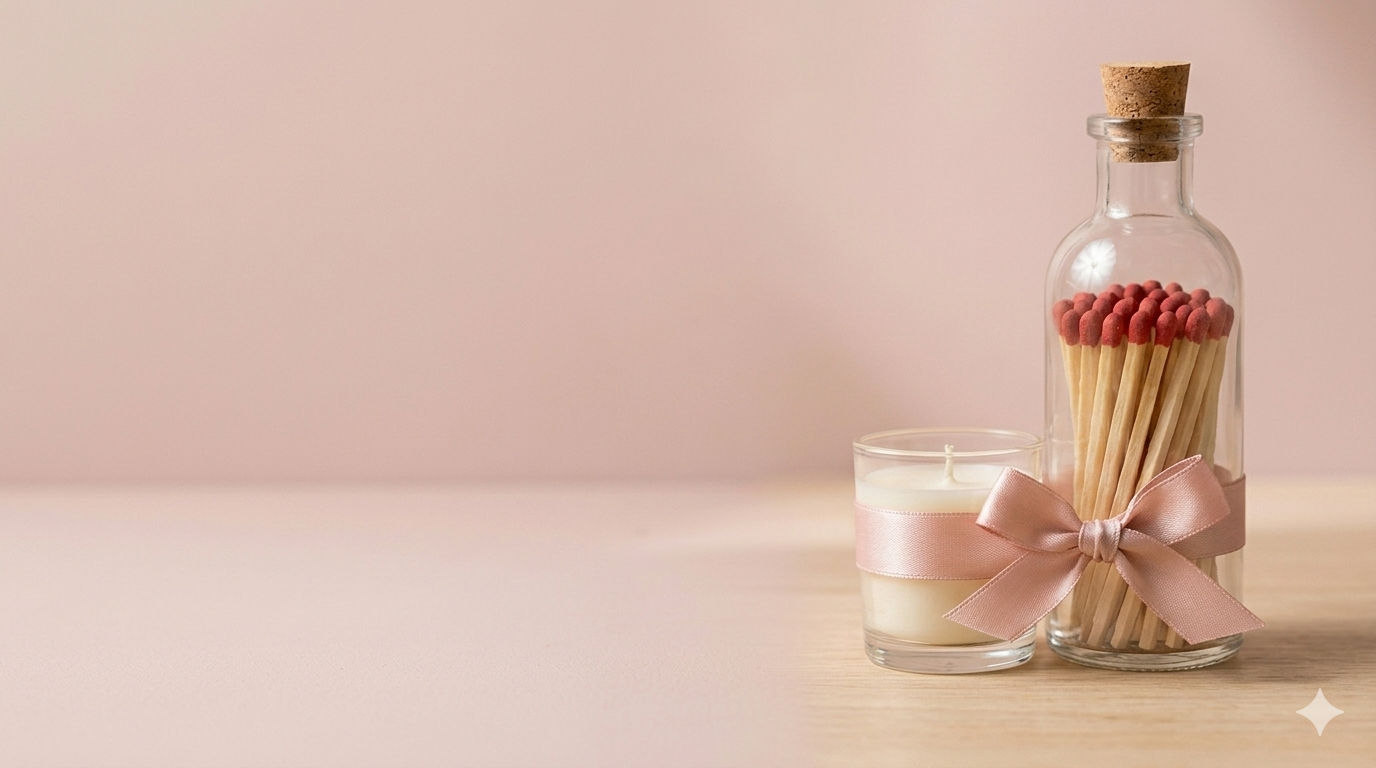
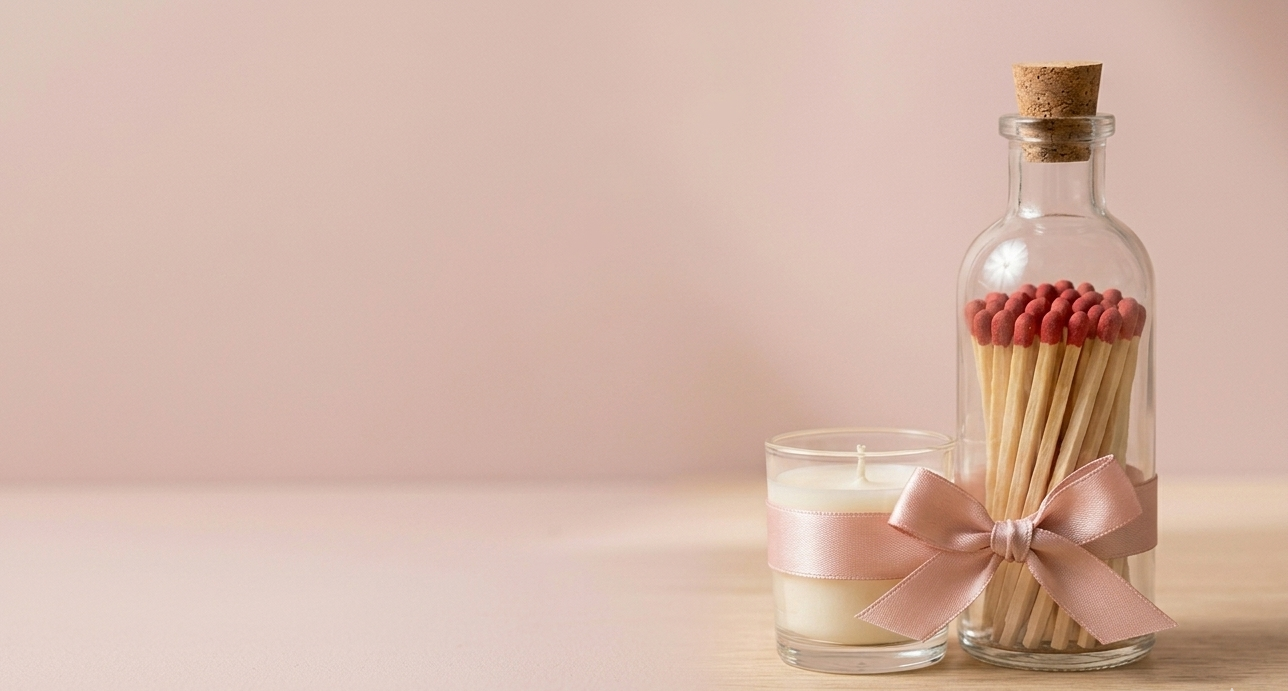
atualizado css

Changed region(s): [[0.0, 0.0608, 1.0, 1.0]]

diff --git a/lumiere-atelie/estilos/style.css b/lumiere-atelie/estilos/style.css
@@ -1,6 +1,250 @@
+* {
+  margin: 0;
+  padding: 0;
+  box-sizing: border-box;
+}
+
+:root {
+    --cor-creme: #F5EDE4;
+    --cor-terracota: #C4946E;
+    --cor-cacau: #4A2E1A;
+    --cor-bege: #E8D5C4;
+    --cor-ambar: #9C6B45;
+    --cor-offwhite: #F0E8DF;
+
+    --fonte-display: 'Cormorant Garamond', serif;
+    --fonte-corpo: 'Jost Light', sans-serif;
+}
+
+html {
+    scroll-behavior: smooth;
+}
+
+body {
+    font-family: var(--fonte-corpo);
+    font-weight: 300;
+    color: var(--cor-cacau);
+    background-color: var(--cor-offwhite);
+    min-height: 100vh;
+    line-height: 1.6;
+}
+
+img {
+    max-width: 100%;
+    display: block;
+}
+
+a {
+    color: inherit;
+    text-decoration: none;
+}
+
+ul {
+    list-style: none;
+}
+
+header {
+    position: fixed;
+    top: 0;
+    left: 0;
+    width: 100%;
+    z-index: 100;
+    transition: background 0.3s ease;
+    background: transparent;
+}
+
+header.scrolled {
+    background: var(--cor-offwhite);
+}
+
+.desconto {
+    background-color: var(--cor-cacau);
+    color: var(--cor-offwhite);
+    text-align: center;
+    font-size: 15px;
+    font-weight: 400;
+    letter-spacing: 1px;
+    padding: 8px;
+}
+
+.menu {
+    display: flex;
+    align-items: center;
+    padding: 16px 48px;
+    font-family: var(--fonte-display);
+}
+
+.menu h1 {
+    font-size: 32px;
+    font-weight: 400;
+    letter-spacing: 2px;
+}
+
+.menu nav {
+    margin-left: auto;
+}
+
+.menu nav ul {
+    display: flex;
+    gap: 32px;
+}
+
+.menu nav ul li a {
+    font-size: 22px;
+    font-weight: 400;
+    letter-spacing: 1px;
+    transition: opacity 0.3s ease;
+}
+
+.menu nav ul li a:hover {
+    opacity: 0.6;
+}
+
+.hero {
+    background-image: 
+    linear-gradient(to bottom, rgba(0, 0, 0, 0.25) 0%, transparent 40%),
+    url("../imagens/hero-banner-sm.webp");
+    background-size: cover;
+    background-position: center;
+    background-repeat: no-repeat;
+    height: 100vh;
+    display: flex;
+    align-items: center;
+}
+
+.hero-texto {
+    display: flex;
+    flex-direction: column;
+    gap: 24px;
+    padding: 40px;
+    max-width: 500px;
+    margin-top: 80px;
+}
+
+.hero-texto p {
+    font-family: var(--fonte-display);
+    font-size: 28px;
+    font-weight: 300;
+    line-height: 1.5;
+    color: var(--cor-cacau);
+}
+
+.btn-hero {
+    display: inline-block;
+    background-color: var(--cor-cacau);
+    color: var(--cor-offwhite);
+    padding: 12px 28px;
+    font-family: var(--fonte-corpo);
+    font-weight: 400;
+    letter-spacing: 1.5px;
+    border-radius: 2px;
+    align-self: flex-start;
+    transition: background-color 0.3s ease, color 0.3s ease;
+}
+
+.btn-hero:hover {
+    background-color: var(--cor-terracota);
+    color: var(--cor-cacau);
+}
+
+.apresentacao {
+    display: flex;
+    flex-direction: column;
+    align-items: center;
+    text-align: center;
+    padding: 100px 200px;
+    gap: 24px;
+}
+
+.apresentacao h2 {
+    font-family: var(--fonte-display);
+    font-size: 48px;
+    font-weight: 300;
+    letter-spacing: 2px;
+}
+
+.apresentacao p {
+    font-size: 16px;
+    font-weight: 300;
+    line-height: 1.8;
+    max-width: 600px;
+    color: var(--cor-ambar);
+}
+
+.destaques-colecao {
+    display: flex;
+    flex-direction: column;
+    align-items: center;
+    padding: 80px 48px;
+    background-color: var(--cor-bege);
+}
+
+.destaques-colecao h2 {
+    font-family: var(--fonte-display);
+    font-size: 40px;
+    font-weight: 300;
+    letter-spacing: 2px;
+}
+
+.destaques {
+    display: grid;
+    grid-template-columns: repeat(3, 1fr);
+    gap: 32px;
+    width: 100%;
+    max-width: 1100px;
+}
+
+.destaques div {
+    display: flex;
+    flex-direction: column;
+    gap: 12px;
+    background-color: var(--cor-offwhite);
+    padding: 24px;
+}
+
+.destaques img {
+    width: 100%;
+    aspect-ratio: 1 / 1;
+    object-fit: cover;
+}
+
+.destaques h4 {
+    font-family: var(--fonte-display);
+    font-size: 22px;
+    font-weight: 400;
+    letter-spacing: 1px;
+}
+
+.destaques p {
+    font-size: 14px;
+    font-weight: 300;
+    line-height: 1.6;
+    color: var(--cor-ambar);
+}
+
+.preco-destaques {
+    font-family: var(--fonte-display);
+    font-size: 20px;
+    font-weight: 400;
+    color: var(--cor-cacau);
+    margin-top: auto;
+}
 
 
 
+@media (min-width: 768px) {
+    .hero {
+        background-image: 
+        linear-gradient(to bottom, rgba(0, 0, 0, 0.25) 0%, transparent 40%),
+        url("../imagens/hero-banner-md.webp");
+        background-position: center;
+    }
+}
 
-
-
+@media (min-width: 1280px) {
+  .hero {
+    background-image: 
+      linear-gradient(to bottom, rgba(0, 0, 0, 0.25) 0%, transparent 40%),
+      url("../imagens/hero-banner-lg.webp");
+  }
+}

diff --git a/lumiere-atelie/presentes.html b/lumiere-atelie/presentes.html
@@ -33,8 +33,10 @@
     </header>
 
     <main>
-        <h2>Vamos Conversar?</h2>
-        <h3>Encomendas personalizadas, kits corporativos ou só uma dúvida — pode falar.</h3>
+        <section class="contato-intro">
+            <h2>Vamos Conversar?</h2>
+            <h3>Encomendas personalizadas, kits corporativos ou só uma dúvida — pode falar.</h3>
+        </section>
     
         <section class="corporativos">
             <img src="imagens/sabonetes-personalizados.png" alt="Sabonetes Personalizados" title="Sabonetes personalizados feitos por encomenda">
@@ -52,11 +54,48 @@
         </section>
 
         <section>
-            <form action="#" method="get" autocomplete="on">
-                <h3>Nome <input type="text" id="nome" name="nome" placeholder="Insira seu nome" required></h3>
-                <h3>Email <input type="email" id="email" name="email" placeholder="Insira seu e-mail" required></h3>
-                <h3>Assunto </h3>
+            <form action="#" method="post">
+                <div>
+                    <label for="nome">Nome</label>
+                    <input type="text" id="nome" name="nome" required>
+                </div>
+
+                <div>
+                    <label for="email">E-mail</label>
+                    <input type="email" id="email" name="email" required>
+                </div>
+
+                <div>
+                    <label for="assunto">Assunto</label>
+                    <select name="assunto" id="assunto" required>
+                        <option value="">Selecione uma opção</option>
+                        <option value="encomenda-pessoal">Encomenda pessoal</option>
+                        <option value="kit-corporativo">Kit Corporativo</option>
+                        <option value="duvida-produto">Dúvida sobre produto</option>
+                        <option value="outro">Outro</option>
+                    </select>
+                </div>
+
+                <div>
+                    <label for="mensagem">Mensagem</label>
+                    <textarea name="mensagem" id="mensagem" rows="5" required></textarea>
+                </div>
+
+                <button type="submit">Enviar mensagem</button>
             </form>
+        </section>
+
+        <section class="contato">
+            <ul>
+                <li>E-mail: [email redacted]</li>
+                <li>WhatsApp: (01) [phone redacted]</li>
+                <li>Instagram: @lumiere.atelier</li>
+                <li>Respondo em até 2 dias úteis <i class="fa-regular fa-face-smile-beam"></i></li>
+            </ul>
+        </section>
+
+        <section class="nota-fechamento">
+            <p>Não faço envio automatizado. Cada pedido é embalado por mim, com cuidado</p>
         </section>
     </main>
 

diff --git a/lumiere-atelie/index.html b/lumiere-atelie/index.html
@@ -34,7 +34,7 @@
 
     <main>
         <section class="hero">
-                <div>
+                <div class="hero-texto">
                     <p>Ganhe uma mini vela com o aroma da sua escolha e um frasco com fósforos em compras acima de <strong>R$ 300,00</strong></p>
                     <a href="loja.html" class="btn-hero">Explorar a coleção</a>
                 </div>
@@ -46,7 +46,7 @@
         </section>
 
         <section class="destaques-colecao">
-            <h3>Destaques da Coleção</h3>
+            <h2>Destaques da Coleção</h2>
 
             <div class="destaques">
                 <div>

diff --git a/lumiere-atelie/sobre.html b/lumiere-atelie/sobre.html
@@ -68,12 +68,12 @@
             </div>
 
             <div>
-                <h3>Estapa 4 - Embalagem</h3>
+                <h3>Etapa 4 - Embalagem</h3>
                 <p>Papel reciclado, fita de algodão, etiqueta escrita. Nada de plástico. Pensado para ser bonito na gaveta e sustentável na vida.</p>
             </div>
         </section>
 
-        <section>
+        <section class="fechamento">
             <p>Não faço em escala porque não quero fazer em escala. Faço o que cabe com cuidado.</p>
         </section>
 

diff --git a/lumiere-atelie/loja.html b/lumiere-atelie/loja.html
@@ -110,6 +110,7 @@
         </section>
 
         <section class="kits">
+            <h2>Kits</h2>
             <div>
                 <img src="imagens/kit-ritual-da-manha.png" alt="Kit Ritual da Manhã" title="Kit Ritual da Manhã com caixa de presente decorada e produtos selecionados">
                 <h3>Kit Ritual da Manhã</h3>
@@ -135,7 +136,7 @@
             </div>
         </section>
     
-        <section>
+        <section class="nota-reposicao">
             <p>Todos os produtos são feitos em pequenos lotes. Quando esgotado, a reposição leva de 2 a 3 semanas - entre em contato para reservar.</p>
         </section>
     </main>